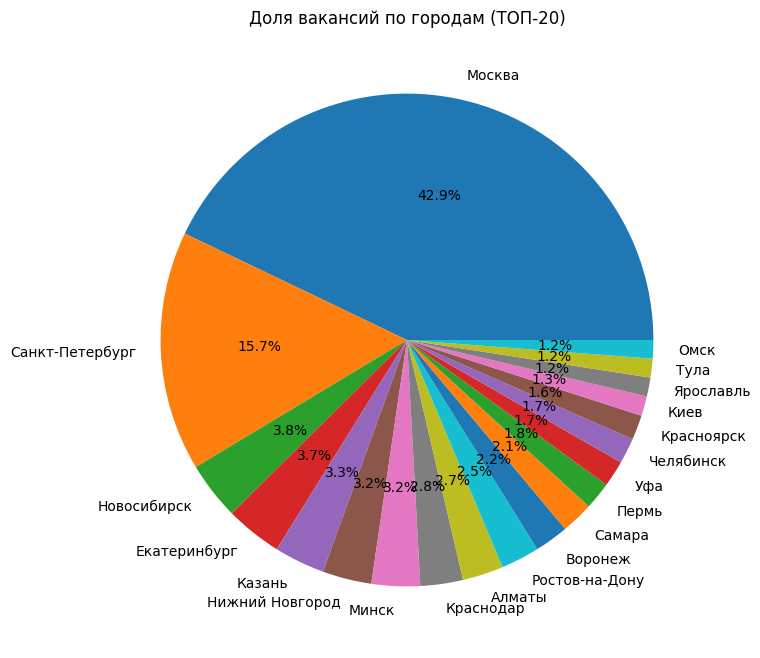
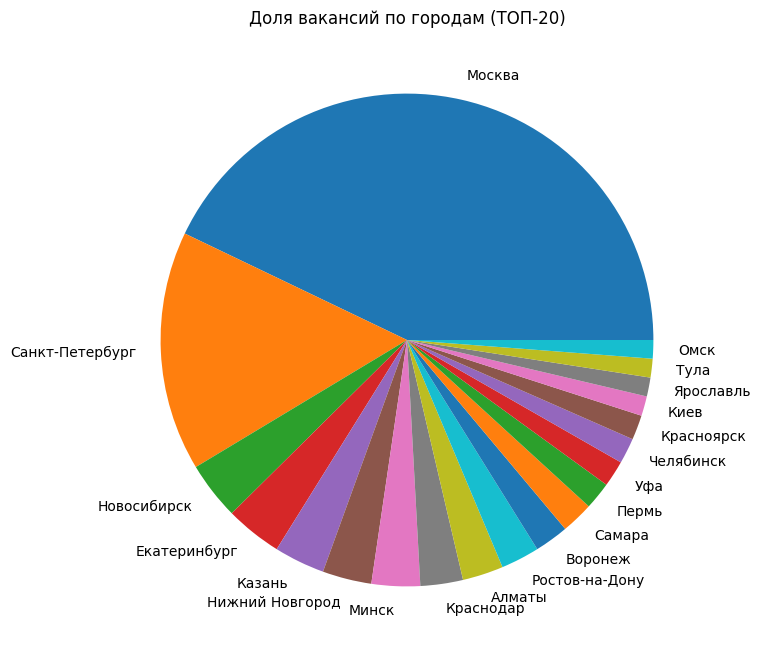
Make all pages public except vacancies Remove percentages from city share pie chart Enhance skills chart readability (lines, size, legend)

diff --git a/it_profession/stats/management/commands/import_skill_stats.py b/it_profession/stats/management/commands/import_skill_stats.py
@@ -2,6 +2,7 @@ import shutil
 from pathlib import Path
 import pandas as pd
 import matplotlib.pyplot as plt
+import itertools # Добавим для цикличности по стилям линий
 
 from collections import Counter, OrderedDict
 
@@ -52,7 +53,7 @@ class Command(BaseCommand):
             sdf[sdf['Навык'].isin(top20)]
             .pivot_table(index='Год', columns='Навык', aggfunc='size', fill_value=0)
             .reindex(columns=top20, fill_value=0)
-            .rename_axis(None, axis='columns')  
+            .rename_axis(None, axis='columns')
         )
 
         table = piv.reset_index()
@@ -62,17 +63,36 @@ class Command(BaseCommand):
             justify='left'
         )
 
-        fig, ax = plt.subplots(figsize=(12, 6))
+        # ----- ИЗМЕНЕНИЯ НАЧИНАЮТСЯ ЗДЕСЬ -----
+
+        # Различные стили линий и маркеры
+        linestyles = ['-', '--', ':', '-.']
+        markers = ['o', 's', 'D', '^', 'v', 'p', 'h', '*', 'X']
+        # Используем itertools.cycle, чтобы циклически проходить по стилям/маркерам
+        style_cycle = itertools.cycle(linestyles)
+        marker_cycle = itertools.cycle(markers)
+
+
+        fig, ax = plt.subplots(figsize=(18, 12)) # Увеличение размера рисунка (например, 15x8)
+
         for skill in top20:
-            ax.plot(piv.index, piv[skill], label=skill.title())
+            # Применяем различные стили и маркеры
+            ax.plot(piv.index, piv[skill], label=skill.title(),
+                    linestyle=next(style_cycle), marker=next(marker_cycle), markersize=5) # Добавлен linestyle и marker
         ax.set(
             title='ТОП‑20 навыков по годам для 1С‑разработчика',
             xlabel='Год',
             ylabel='Число упоминаний'
         )
         ax.grid(True, linestyle='--', alpha=0.6)
-        ax.legend(loc='center left', bbox_to_anchor=(1, 0.5))
-        fig.tight_layout()
+
+        # Изменение расположения легенды: вниз, по центру, за пределами графика
+        ax.legend(loc='upper center', bbox_to_anchor=(0.5, -0.10),
+                  fancybox=True, shadow=True, ncol=5) # ncol=5 для размещения в 5 колонок
+
+        fig.tight_layout(rect=[0, 0.15, 1, 1]) # Корректировка макета, чтобы легенда поместилась снизу
+
+        # ----- ИЗМЕНЕНИЯ ЗАВЕРШАЮТСЯ ЗДЕСЬ -----
 
         out_path = charts / 'skills_by_year.png'
         fig.savefig(out_path, bbox_inches='tight')

diff --git a/it_profession/stats/views.py b/it_profession/stats/views.py
@@ -1,9 +1,7 @@
 from django.views.generic import TemplateView
-from django.contrib.auth.mixins import LoginRequiredMixin
 from .models import GeneralStatistic, DemandStatistic, GeographyStatistic, SkillStatistic
 
-class GeneralStatsView(LoginRequiredMixin, TemplateView):
-    login_url = 'login'
+class GeneralStatsView(TemplateView):
     template_name = 'stats/general_stats.html'
 
     def get_context_data(self, **kwargs):
@@ -11,8 +9,7 @@ class GeneralStatsView(LoginRequiredMixin, TemplateView):
         ctx['blocks'] = GeneralStatistic.objects.all()
         return ctx
 
-class DemandView(LoginRequiredMixin, TemplateView):
-    login_url = 'login'
+class DemandView(TemplateView):
     template_name = 'stats/demand.html'
 
     def get_context_data(self, **kwargs):
@@ -20,8 +17,7 @@ class DemandView(LoginRequiredMixin, TemplateView):
         ctx['blocks'] = DemandStatistic.objects.all()
         return ctx
 
-class GeographyView(LoginRequiredMixin, TemplateView):
-    login_url = 'login'
+class GeographyView(TemplateView):
     template_name = 'stats/geography.html'
 
     def get_context_data(self, **kwargs):
@@ -29,8 +25,7 @@ class GeographyView(LoginRequiredMixin, TemplateView):
         ctx['blocks'] = GeographyStatistic.objects.all()
         return ctx
 
-class SkillView(LoginRequiredMixin, TemplateView):
-    login_url = 'login'
+class SkillView(TemplateView):
     template_name = 'stats/skills.html'
 
     def get_context_data(self, **kw):

diff --git a/it_profession/stats/management/commands/import_stats.py b/it_profession/stats/management/commands/import_stats.py
@@ -158,7 +158,7 @@ class Command(BaseCommand):
         })
         html4 = table4.to_html(index=False, classes='table table-striped', justify='left')
         fig, ax = plt.subplots(figsize=(8, 8))
-        ax.pie(share.values, labels=share.index, autopct='%1.1f%%')
+        ax.pie(share.values, labels=share.index, autopct=None)
         ax.set_title('Доля вакансий по городам (ТОП-20)')
         fig.savefig(charts / 'city_share.png', bbox_inches='tight')
         plt.close(fig)

diff --git a/it_profession/stats/management/commands/import_geography_stats.py b/it_profession/stats/management/commands/import_geography_stats.py
@@ -123,7 +123,7 @@ class Command(BaseCommand):
             justify='left'
         )
         fig, ax = plt.subplots(figsize=(8, 8))
-        ax.pie(share.values, labels=share.index, autopct='%1.1f%%')
+        ax.pie(share.values, labels=share.index, autopct=None)
         ax.set_title('Доля вакансий по городам (ТОП-20)')
         fig.savefig(charts / 'geo_share.png', bbox_inches='tight')
         plt.close(fig)
